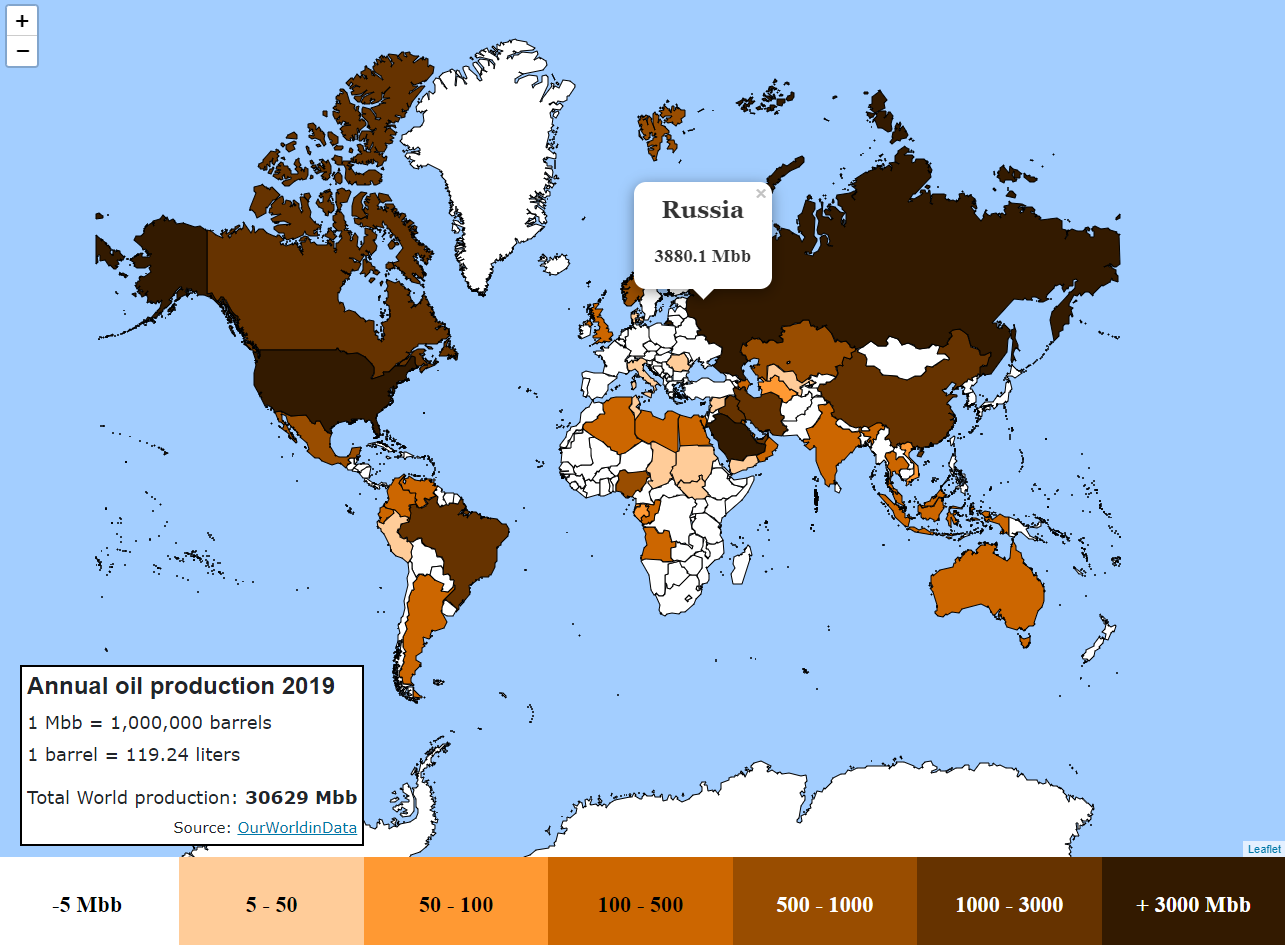
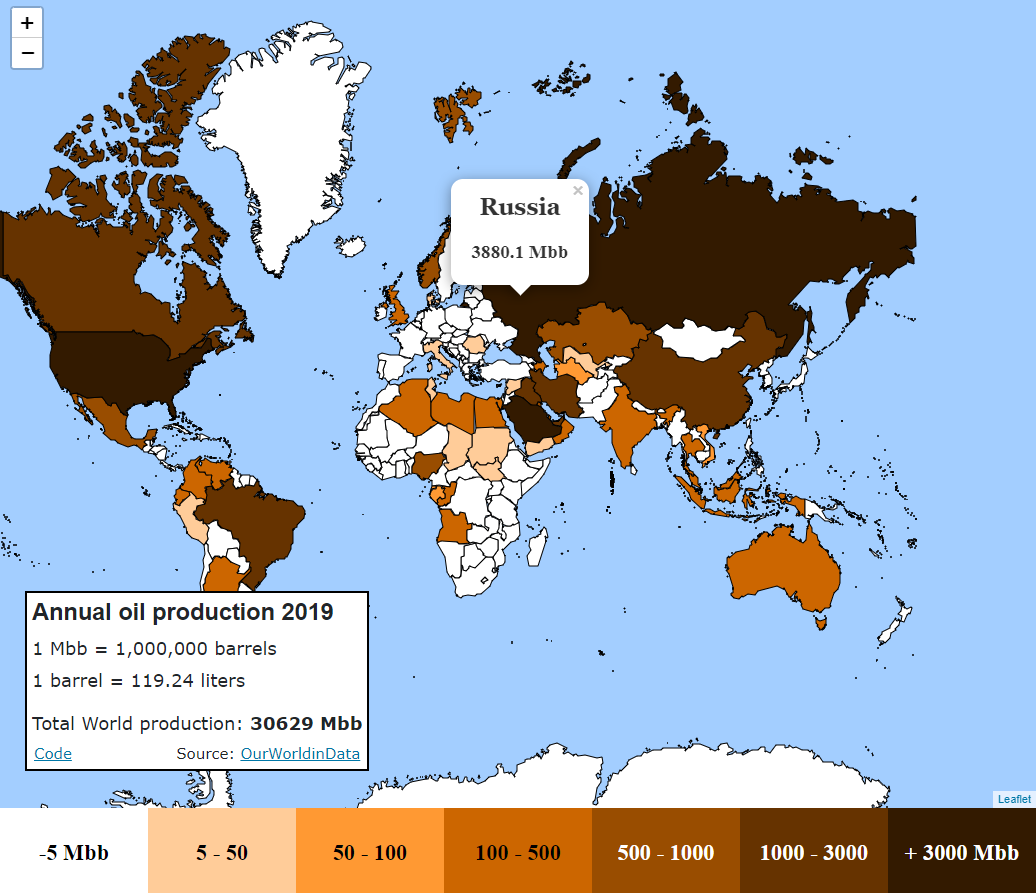
legend

diff --git a/src/components/OilMap.jsx b/src/components/OilMap.jsx
@@ -28,8 +28,11 @@ const OilMap = ({ countries }) => {
         <h4 className='title-info-legend'><strong>Annual oil production 2019</strong></h4> 
         <p className='info-legend-conv text-info-legend'>1 Mbb = 1,000,000 barrels</p>
         <p className='text-info-legend'>1 barrel =  119.24 liters</p>
-        <p className='bottom-info-legend text-info-legend'>Total World production: <strong>30629 Mbb</strong></p>
-        <p className='source-info-legend'>Source: <a href="https://ourworldindata.org/grapher/oil-production-by-country">OurWorldinData</a></p>
+        <p className='world-info-legend text-info-legend'>Total World production: <strong>30629 Mbb</strong></p>
+        <div className='bottom-container-info-legend'>
+        <p className='source-info-legend'><a href="https://github.com/JosepAnSabate/React-Leaflet-World-Oil-Production-Deployment">Code</a></p>
+            <p className='source-info-legend'>Source: <a href="https://ourworldindata.org/grapher/oil-production-by-country">OurWorldinData</a></p>
+        </div>
         </div>
         <GeoJSON style={mapStyle} data={countries} onEachFeature={oneEchCountry} />
        

diff --git a/src/components/OilMap.css b/src/components/OilMap.css
@@ -31,7 +31,7 @@
     border: 2px solid black;
     padding: 5px;
     margin: 25px;
-    margin-top: 70vh;
+    margin-top: 66vh;
     font-size: 18px;
 }
 
@@ -39,7 +39,7 @@
     margin-bottom: 5px;
     margin-top: 5px;
 }
-.bottom-info-legend{
+.world-info-legend{
     margin-bottom: 5px;
 }
 
@@ -51,7 +51,14 @@
     font-family: Verdana, Geneva, Tahoma, sans-serif;
     font-size: 15px;
     margin-bottom: 0px;
+    margin-left: 2px;
+    margin-right: 2px;
     text-align: end;
+}
+
+.bottom-container-info-legend{
+    display: flex;
+    justify-content: space-between;
 }
 
 @media (max-width: 470px) {
@@ -70,8 +77,8 @@
 
 @media (max-height: 700px) {
     .sidebar{
-        margin-top: 64vh;
+        margin: 10px;
+        margin-top: 60vh;
         margin-left: 10px;
-        margin: 15px;
     }
   }
